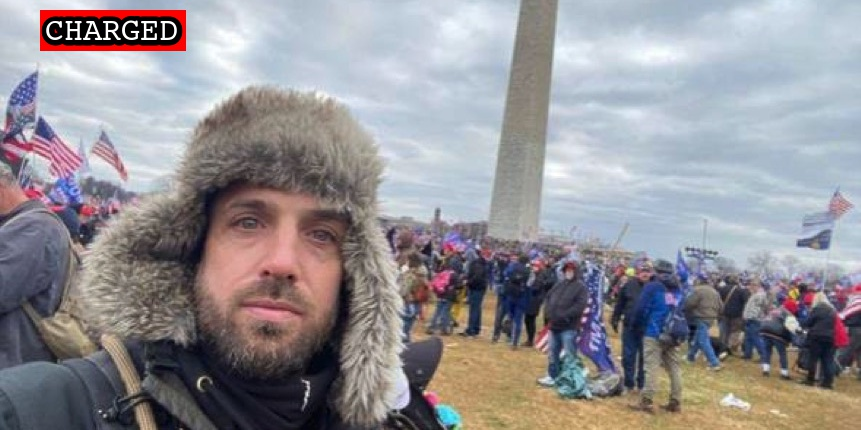
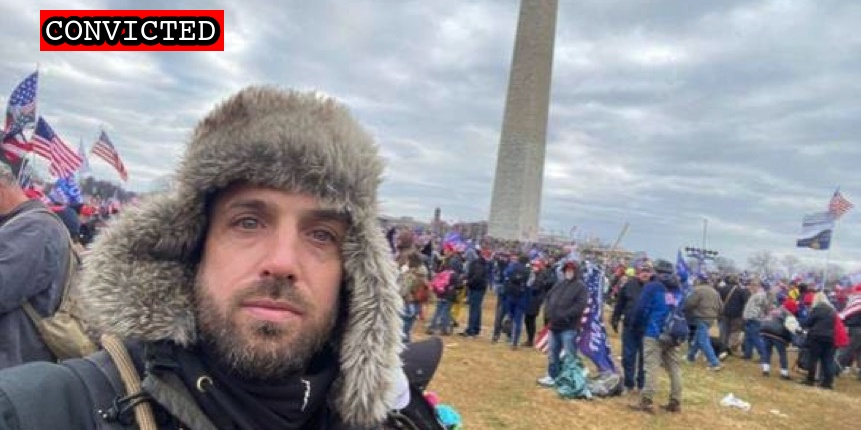
Latest import, schedule, etc.

Changed region(s): [[0.0604, 0.0, 0.2718, 0.1209]]

diff --git a/docs/_suspects/sean-mchugh.md b/docs/_suspects/sean-mchugh.md
@@ -15,7 +15,7 @@ dismissed:
 deceased:
 plea_hearing:
 trial_date: 2023-04-17
-trial_type: Stipulated Bench Trial
+trial_type: Bench Trial
 jury_selection:
 sentencing:
 status_conference:
@@ -40,34 +40,33 @@ caseNumber: 21-cr-0453
 caseName: USA v. MCHUGH
 judge: John D. Bates
 videos:
-  - title: Media1.mp4 (0:00:56)
-    url: https://propublica-data-j6cases-videos.s3.us-east-1.amazonaws.com/c2f1fca0ce2a013960702cde48001122.mp4
-  - title: Media3.mp4 (0:00:14)
-    url: https://propublica-data-j6cases-videos.s3.us-east-1.amazonaws.com/cc626190ce2a013960702cde48001122.mp4
-  - title: Media5.mp4 (0:00:34)
-    url: https://propublica-data-j6cases-videos.s3.us-east-1.amazonaws.com/e05fc660ce2a013960702cde48001122.mp4
-  - title: Media7.mp4 (0:00:22)
-    url: https://propublica-data-j6cases-videos.s3.us-east-1.amazonaws.com/dd94dd00ce2a013960702cde48001122.mp4
-  - title: Media9.mp4 (0:00:26)
-    url: https://propublica-data-j6cases-videos.s3.us-east-1.amazonaws.com/e7358f10ce2a013960702cde48001122.mp4
-  - title: Media11.mp4 (0:00:20)
-    url: https://propublica-data-j6cases-videos.s3.us-east-1.amazonaws.com/c9c24010ce2a013960702cde48001122.mp4
-  - title: Media2.mp4 (0:00:14)
-    url: https://propublica-data-j6cases-videos.s3.us-east-1.amazonaws.com/ce977610ce2a013960702cde48001122.mp4
-  - title: Media4.mp4 (0:00:21)
-    url: https://propublica-data-j6cases-videos.s3.us-east-1.amazonaws.com/e46d7400ce2a013960702cde48001122.mp4
-  - title: Media6.mp4 (0:01:29)
-    url: https://propublica-data-j6cases-videos.s3.us-east-1.amazonaws.com/d2dd3c80ce2a013960702cde48001122.mp4
-  - title: Media8.mp4 (0:00:17)
-    url: https://propublica-data-j6cases-videos.s3.us-east-1.amazonaws.com/eac148f0ce2a013960702cde48001122.mp4
-  - title: Media10.mp4 (0:00:13)
-    url: https://propublica-data-j6cases-videos.s3.us-east-1.amazonaws.com/d095dad0ce2a013960702cde48001122.mp4
-  - title: Media12.mp4 (0:00:10)
-    url: https://propublica-data-j6cases-videos.s3.us-east-1.amazonaws.com/c100a3d0ce2a013960702cde48001122.mp4
+- title: Media1.mp4 (0:00:56)
+  url: https://propublica-data-j6cases-videos.s3.us-east-1.amazonaws.com/c2f1fca0ce2a013960702cde48001122.mp4
+- title: Media3.mp4 (0:00:14)
+  url: https://propublica-data-j6cases-videos.s3.us-east-1.amazonaws.com/cc626190ce2a013960702cde48001122.mp4
+- title: Media5.mp4 (0:00:34)
+  url: https://propublica-data-j6cases-videos.s3.us-east-1.amazonaws.com/e05fc660ce2a013960702cde48001122.mp4
+- title: Media7.mp4 (0:00:22)
+  url: https://propublica-data-j6cases-videos.s3.us-east-1.amazonaws.com/dd94dd00ce2a013960702cde48001122.mp4
+- title: Media9.mp4 (0:00:26)
+  url: https://propublica-data-j6cases-videos.s3.us-east-1.amazonaws.com/e7358f10ce2a013960702cde48001122.mp4
+- title: Media11.mp4 (0:00:20)
+  url: https://propublica-data-j6cases-videos.s3.us-east-1.amazonaws.com/c9c24010ce2a013960702cde48001122.mp4
+- title: Media2.mp4 (0:00:14)
+  url: https://propublica-data-j6cases-videos.s3.us-east-1.amazonaws.com/ce977610ce2a013960702cde48001122.mp4
+- title: Media4.mp4 (0:00:21)
+  url: https://propublica-data-j6cases-videos.s3.us-east-1.amazonaws.com/e46d7400ce2a013960702cde48001122.mp4
+- title: Media6.mp4 (0:01:29)
+  url: https://propublica-data-j6cases-videos.s3.us-east-1.amazonaws.com/d2dd3c80ce2a013960702cde48001122.mp4
+- title: Media8.mp4 (0:00:17)
+  url: https://propublica-data-j6cases-videos.s3.us-east-1.amazonaws.com/eac148f0ce2a013960702cde48001122.mp4
+- title: Media10.mp4 (0:00:13)
+  url: https://propublica-data-j6cases-videos.s3.us-east-1.amazonaws.com/d095dad0ce2a013960702cde48001122.mp4
+- title: Media12.mp4 (0:00:10)
+  url: https://propublica-data-j6cases-videos.s3.us-east-1.amazonaws.com/c100a3d0ce2a013960702cde48001122.mp4
 charges:
 sentence:
 ---
-
 - [News Report](https://www.sacbee.com/news/local/crime/article251748888.html)
 - [Statement of Facts](https://www.justice.gov/opa/case-multi-defendant/file/1399611/download)
 - [Indictment](https://www.justice.gov/usao-dc/case-multi-defendant/file/1410721/download)

diff --git a/docs/_suspects/alexander-sheppard.md b/docs/_suspects/alexander-sheppard.md
@@ -41,32 +41,33 @@ caseName: USA v. SHEPPARD
 judge: John D. Bates
 videos:
 charges:
-- code: 18 USC § 1512(c)(2),2
-  title: Obstruction of an Official Proceeding (Aiding and Abetting)
-  url: https://www.law.cornell.edu/uscode/text/18/1512
-  felony: true
-- code: 18 USC § 1752(a)(1)
-  title: Entering a restricted building or grounds
-  url: https://www.law.cornell.edu/uscode/text/18/1752
-  felony: false
-- code: 18 USC § 1752(a)(2)
-  title: Disorderly and disruptive conduct in a restricted building or grounds
-  url: https://www.law.cornell.edu/uscode/text/18/1752
-  felony: false
-- code: 40 USC § 5104(e)(2)(A)
-  title: Entering and Remaining on the Floor of Congress
-  url: https://www.law.cornell.edu/uscode/text/40/5104
-  felony: false
-- code: 40 USC § 5104(e)(2)(D)
-  title: Disorderly Conduct in a Capitol Building
-  url: https://www.law.cornell.edu/uscode/text/40/5104
-  felony: false
-- code: 40 USC § 5104(e)(2)(G)
-  title: Parading, demonstrating or picketing in a Capitol building
-  url: https://www.law.cornell.edu/uscode/text/40/5104
-  felony: false
+  - code: 18 USC § 1512(c)(2),2
+    title: Obstruction of an Official Proceeding (Aiding and Abetting)
+    url: https://www.law.cornell.edu/uscode/text/18/1512
+    felony: true
+  - code: 18 USC § 1752(a)(1)
+    title: Entering a restricted building or grounds
+    url: https://www.law.cornell.edu/uscode/text/18/1752
+    felony: false
+  - code: 18 USC § 1752(a)(2)
+    title: Disorderly and disruptive conduct in a restricted building or grounds
+    url: https://www.law.cornell.edu/uscode/text/18/1752
+    felony: false
+  - code: 40 USC § 5104(e)(2)(A)
+    title: Entering and Remaining on the Floor of Congress
+    url: https://www.law.cornell.edu/uscode/text/40/5104
+    felony: false
+  - code: 40 USC § 5104(e)(2)(D)
+    title: Disorderly Conduct in a Capitol Building
+    url: https://www.law.cornell.edu/uscode/text/40/5104
+    felony: false
+  - code: 40 USC § 5104(e)(2)(G)
+    title: Parading, demonstrating or picketing in a Capitol building
+    url: https://www.law.cornell.edu/uscode/text/40/5104
+    felony: false
 sentence:
 ---
+
 - [News Report](https://www.dispatch.com/story/news/crime/2021/02/23/capitol-riot-arrests-derek-jancart-columbus-ohio-social-media/4567302001/)
 - [Statement of Facts](https://www.justice.gov/usao-dc/case-multi-defendant/file/1371511/download)
 - [Indictment](https://www.justice.gov/usao-dc/case-multi-defendant/file/1377956/download)

diff --git a/docs/_suspects/stacy-hager.md b/docs/_suspects/stacy-hager.md
@@ -4,11 +4,11 @@ lastName: Hager
 hashtag: StacyHager
 aka:
 residence: Texas
-status: Charged
+status: Convicted
 date: 2021-05-29
 charged: 2021-05-29
 indicted:
-convicted:
+convicted: 2023-04-04
 acquitted:
 sentenced:
 dismissed:
@@ -17,7 +17,7 @@ plea_hearing:
 trial_date: 2023-04-03
 trial_type: Bench Trial
 jury_selection:
-sentencing:
+sentencing: 2023-07-13
 status_conference:
 age: 57
 occupation:
@@ -32,7 +32,7 @@ raid:
 perpwalk:
 quote: "We opted to scale the wall"
 title: Stacy Hager charged on May 29th, 2021
-description: Click for latest case details. Suspects innocent until proven guilty.
+description: Convicted on April 4, 2023. Click for latest case details.
 author: seditiontrack
 layout: suspect
 published: true
@@ -41,9 +41,25 @@ caseName: USA v. HAGER
 judge: Tanya S. Chutkan
 videos:
 charges:
+  - code: 18 USC § 1752(a)(1)
+    title: Entering a restricted building or grounds
+    url: https://www.law.cornell.edu/uscode/text/18/1752
+    felony: false
+  - code: 18 USC § 1752(a)(2)
+    title: Disorderly and disruptive conduct in a restricted building or grounds
+    url: https://www.law.cornell.edu/uscode/text/18/1752
+    felony: false
+  - code: 40 USC § 5104(e)(2)(D)
+    title: Disorderly Conduct in a Capitol Building
+    url: https://www.law.cornell.edu/uscode/text/40/5104
+    felony: false
+  - code: 40 USC § 5104(e)(2)(G)
+    title: Parading, demonstrating or picketing in a Capitol building
+    url: https://www.law.cornell.edu/uscode/text/40/5104
+    felony: false
 sentence:
 ---
+
 - [News Report](https://www.gatesvillemessenger.com/news/gatesville-man-arrested-taking-part-jan-6-mob)
 - [Complaint](https://www.justice.gov/usao-dc/case-multi-defendant/file/1400881/download)
 - [Statement of Facts](https://www.justice.gov/usao-dc/case-multi-defendant/file/1400886/download)
-- [Information](https://extremism.gwu.edu/sites/g/files/zaxdzs2191/f/Stacy%20Wade%20Hager%20Information.pdf)

diff --git a/docs/_suspects/jared-cantrell.md b/docs/_suspects/jared-cantrell.md
@@ -4,11 +4,11 @@ lastName: Cantrell
 hashtag:
 aka:
 residence: Indiana
-status: Charged
+status: Convicted
 date: 2022-03-07
 charged: 2022-03-07
 indicted:
-convicted:
+convicted: 2023-04-04
 acquitted:
 sentenced:
 dismissed:
@@ -17,7 +17,7 @@ plea_hearing:
 trial_date: 2023-04-03
 trial_type: Bench Trial
 jury_selection:
-sentencing:
+sentencing: 2023-06-26
 status_conference:
 age: 38
 occupation:
@@ -32,7 +32,7 @@ raid:
 perpwalk:
 quote: "I was one of the first 50 in."
 title: Jared Cantrell charged on March 7th, 2022
-description: Click for latest case details. Suspects innocent until proven guilty.
+description: Convicted on April 4, 2023. Click for latest case details.
 author: seditiontrack
 layout: suspect
 published: true
@@ -41,9 +41,21 @@ caseName: USA v. CANTRELL
 judge: Trevor N. McFadden
 videos:
 charges:
+  - code: 18 USC § 1752(a)(1)
+    title: Entering a restricted building or grounds
+    url: https://www.law.cornell.edu/uscode/text/18/1752
+    felony: false
+  - code: 18 USC § 1752(a)(2)
+    title: Disorderly and disruptive conduct in a restricted building or grounds
+    url: https://www.law.cornell.edu/uscode/text/18/1752
+    felony: false
+  - code: 40 USC § 5104(e)(2)(G)
+    title: Parading, demonstrating or picketing in a Capitol building
+    url: https://www.law.cornell.edu/uscode/text/40/5104
+    felony: false
 sentence:
 ---
+
 - [News Report](https://dailyjournal.net/2022/03/10/fbi-arrests-greenwood-man-for-role-in-capitol-insurrection/)
 - [Complaint](https://www.justice.gov/usao-dc/case-multi-defendant/file/1481931/download)
 - [Statement of Facts](https://www.justice.gov/usao-dc/case-multi-defendant/file/1481936/download)
-- [Information](https://extremism.gwu.edu/sites/g/files/zaxdzs2191/f/Eric%20Quentin%20and%20Jared%20Cantrell%20Information.pdf)

diff --git a/docs/_suspects/quentin-cantrell.md b/docs/_suspects/quentin-cantrell.md
@@ -4,11 +4,11 @@ lastName: Cantrell
 hashtag:
 aka:
 residence: Indiana
-status: Charged
+status: Convicted
 date: 2022-03-07
 charged: 2022-03-07
 indicted:
-convicted:
+convicted: 2023-04-04
 acquitted:
 sentenced:
 dismissed:
@@ -17,7 +17,7 @@ plea_hearing:
 trial_date: 2023-04-03
 trial_type: Bench Trial
 jury_selection:
-sentencing:
+sentencing: 2023-06-26
 status_conference:
 age: 54
 occupation:
@@ -32,7 +32,7 @@ raid:
 perpwalk:
 quote:
 title: Quentin Cantrell charged on March 7th, 2022
-description: Click for latest case details. Suspects innocent until proven guilty.
+description: Convicted on April 4, 2023. Click for latest case details.
 author: seditiontrack
 layout: suspect
 published: true
@@ -41,9 +41,17 @@ caseName: USA v. CANTRELL
 judge: Trevor N. McFadden
 videos:
 charges:
+  - code: 18 USC § 1752(a)(1)
+    title: Entering a restricted building or grounds
+    url: https://www.law.cornell.edu/uscode/text/18/1752
+    felony: false
+  - code: 40 USC § 5104(e)(2)(G)
+    title: Parading, demonstrating or picketing in a Capitol building
+    url: https://www.law.cornell.edu/uscode/text/40/5104
+    felony: false
 sentence:
 ---
+
 - [News Report](https://www.msn.com/en-us/news/crime/3-indianapolis-area-men-arrested-in-connection-with-us-capitol-riot/ar-AAUTEA7)
 - [Complaint](https://www.justice.gov/usao-dc/case-multi-defendant/file/1481961/download)
 - [Statement of Facts](https://www.justice.gov/usao-dc/case-multi-defendant/file/1481966/download)
-- [Information](https://extremism.gwu.edu/sites/g/files/zaxdzs2191/f/Eric%20Quentin%20and%20Jared%20Cantrell%20Information.pdf)

diff --git a/docs/_suspects/shawn-price.md b/docs/_suspects/shawn-price.md
@@ -41,16 +41,15 @@ caseName: USA v. PRICE
 judge: Carl J. Nichols
 videos:
 charges:
-  - code: 18 USC § 231(a)(3)
-    title: Obstruction of Law Enforcement During Civil Disorder
-    url: https://www.law.cornell.edu/uscode/text/18/231
-    felony: true
+- code: 18 USC § 231(a)(3)
+  title: Obstruction of Law Enforcement During Civil Disorder
+  url: https://www.law.cornell.edu/uscode/text/18/231
+  felony: true
 sentence:
   - 1 year incarceration
   - 3 years probation
   - $2000 restitution
 ---
-
 - [News Report](https://www.dailyrecord.com/story/news/2021/06/08/capitol-riot-rockaway-twp-proud-boys-member-charged-role-deadly-attack/7606726002/)
 - [Statement of Facts](https://www.justice.gov/usao-dc/case-multi-defendant/file/1402491/download)
 - [DOJ Press Release](https://www.justice.gov/usao-dc/pr/self-identified-proud-boy-arrested-violent-entry-and-obstruction-justice-during-jan-6)

diff --git a/docs/_suspects/jeffrey-grace.md b/docs/_suspects/jeffrey-grace.md
@@ -41,13 +41,12 @@ caseName: USA v. GRACE
 judge: Randolph D. Moss
 videos:
 charges:
-  - code: 18 USC § 1752(a)(1)
-    title: Entering a restricted building or grounds
-    url: https://www.law.cornell.edu/uscode/text/18/1752
-    felony: false
+- code: 18 USC § 1752(a)(1)
+  title: Entering a restricted building or grounds
+  url: https://www.law.cornell.edu/uscode/text/18/1752
+  felony: false
 sentence:
 ---
-
 - [News Report](https://www.seattletimes.com/seattle-news/crime/clark-county-man-charged-with-entering-capitol-during-siege/)
 - [Statement of Facts](https://www.justice.gov/usao-dc/case-multi-defendant/file/1364691/download)
 - [Information](https://www.justice.gov/usao-dc/case-multi-defendant/file/1388636/download)

diff --git a/docs/_suspects/ryan-zink.md b/docs/_suspects/ryan-zink.md
@@ -14,11 +14,11 @@ sentenced:
 dismissed:
 deceased:
 plea_hearing:
-trial_date:
-trial_type:
-jury_selection:
+trial_date: 2023-09-05
+trial_type: Jury Trial
+jury_selection: 2023-09-05
 sentencing:
-status_conference: 2023-04-04
+status_conference:
 age: 32
 occupation: Business Owner
 affiliations:

diff --git a/docs/_suspects/jonathan-mellis.md b/docs/_suspects/jonathan-mellis.md
@@ -13,12 +13,12 @@ acquitted:
 sentenced:
 dismissed:
 deceased:
-plea_hearing:
+plea_hearing: 2023-05-05
 trial_date:
 trial_type:
 jury_selection:
 sentencing:
-status_conference: 2023-04-04
+status_conference:
 age: 34
 occupation:
 affiliations:

diff --git a/docs/_suspects/isaiah-farnsworth.md b/docs/_suspects/isaiah-farnsworth.md
@@ -13,12 +13,12 @@ acquitted:
 sentenced:
 dismissed:
 deceased:
-plea_hearing:
+plea_hearing: 2023-05-04
 trial_date:
 trial_type:
 jury_selection:
 sentencing:
-status_conference: 2023-04-04
+status_conference:
 age:
 occupation:
 affiliations:

diff --git a/docs/_suspects/michael-perkins.md b/docs/_suspects/michael-perkins.md
@@ -18,7 +18,7 @@ trial_date: 2023-03-06
 trial_type: Bench Trial
 jury_selection:
 sentencing: 2023-07-13
-status_conference: 2023-04-04
+status_conference:
 age: 37
 occupation:
 affiliations:

diff --git a/docs/_suspects/eric-cantrell.md b/docs/_suspects/eric-cantrell.md
@@ -17,7 +17,7 @@ plea_hearing:
 trial_date: 2023-04-03
 trial_type: Bench Trial
 jury_selection:
-sentencing: 2023-03-27
+sentencing: 2023-06-26
 status_conference:
 age: 51
 occupation:
